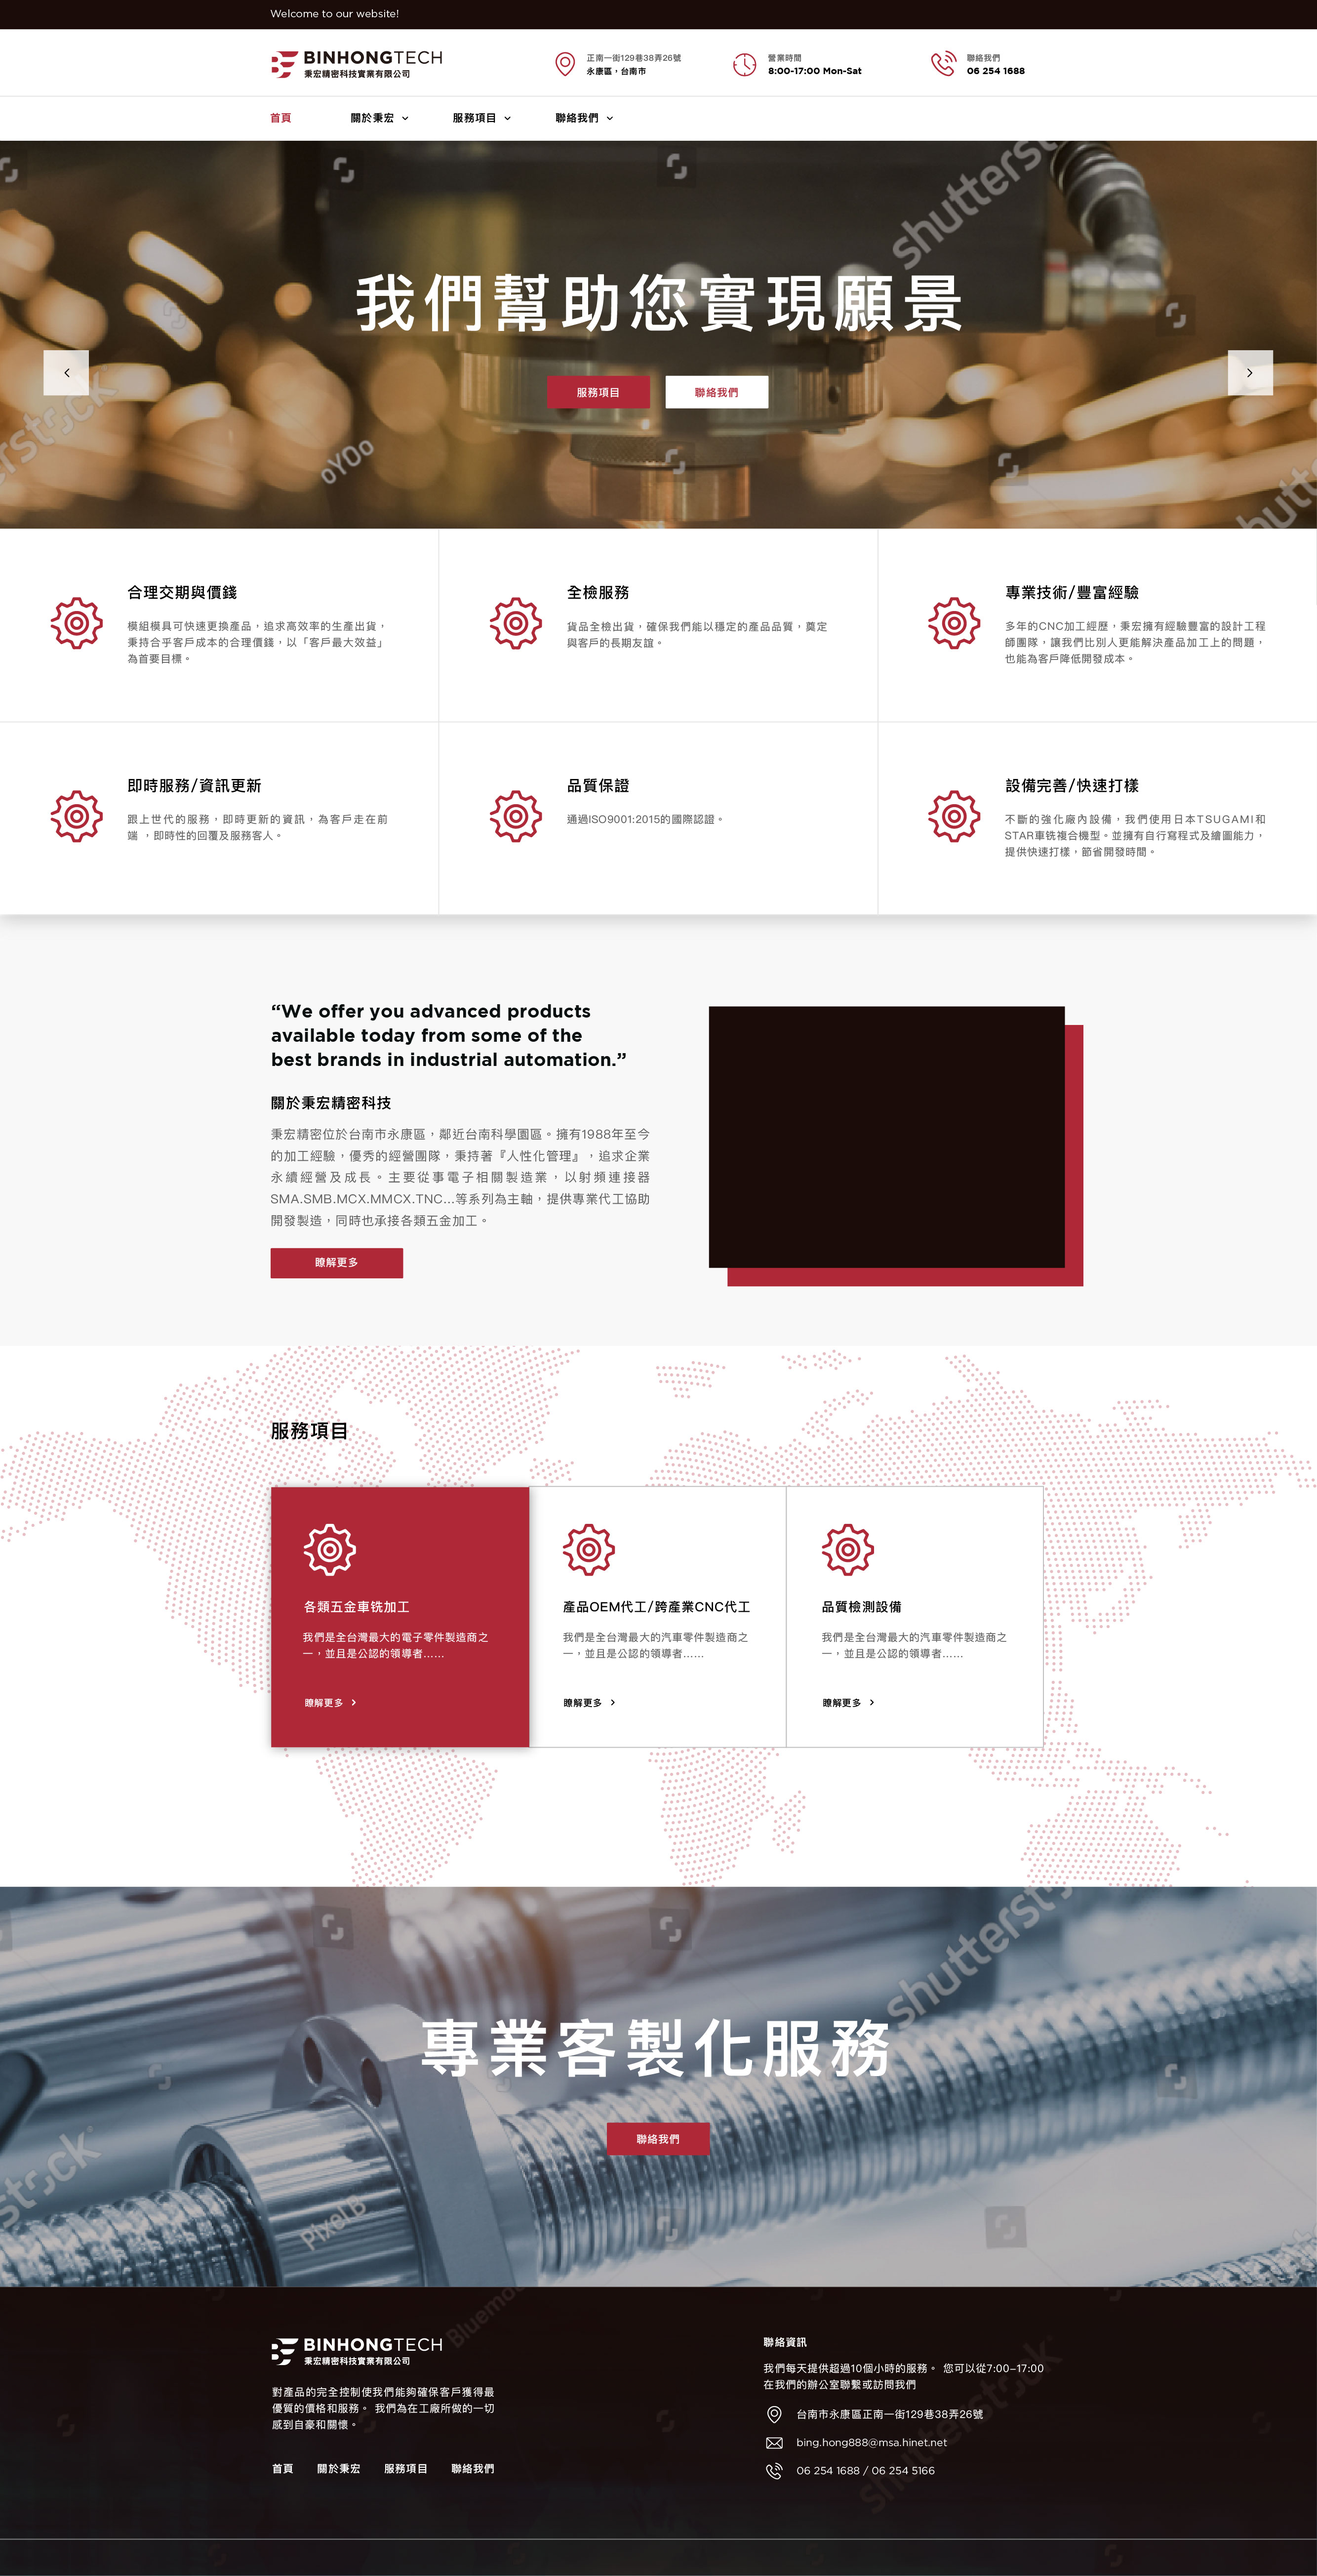
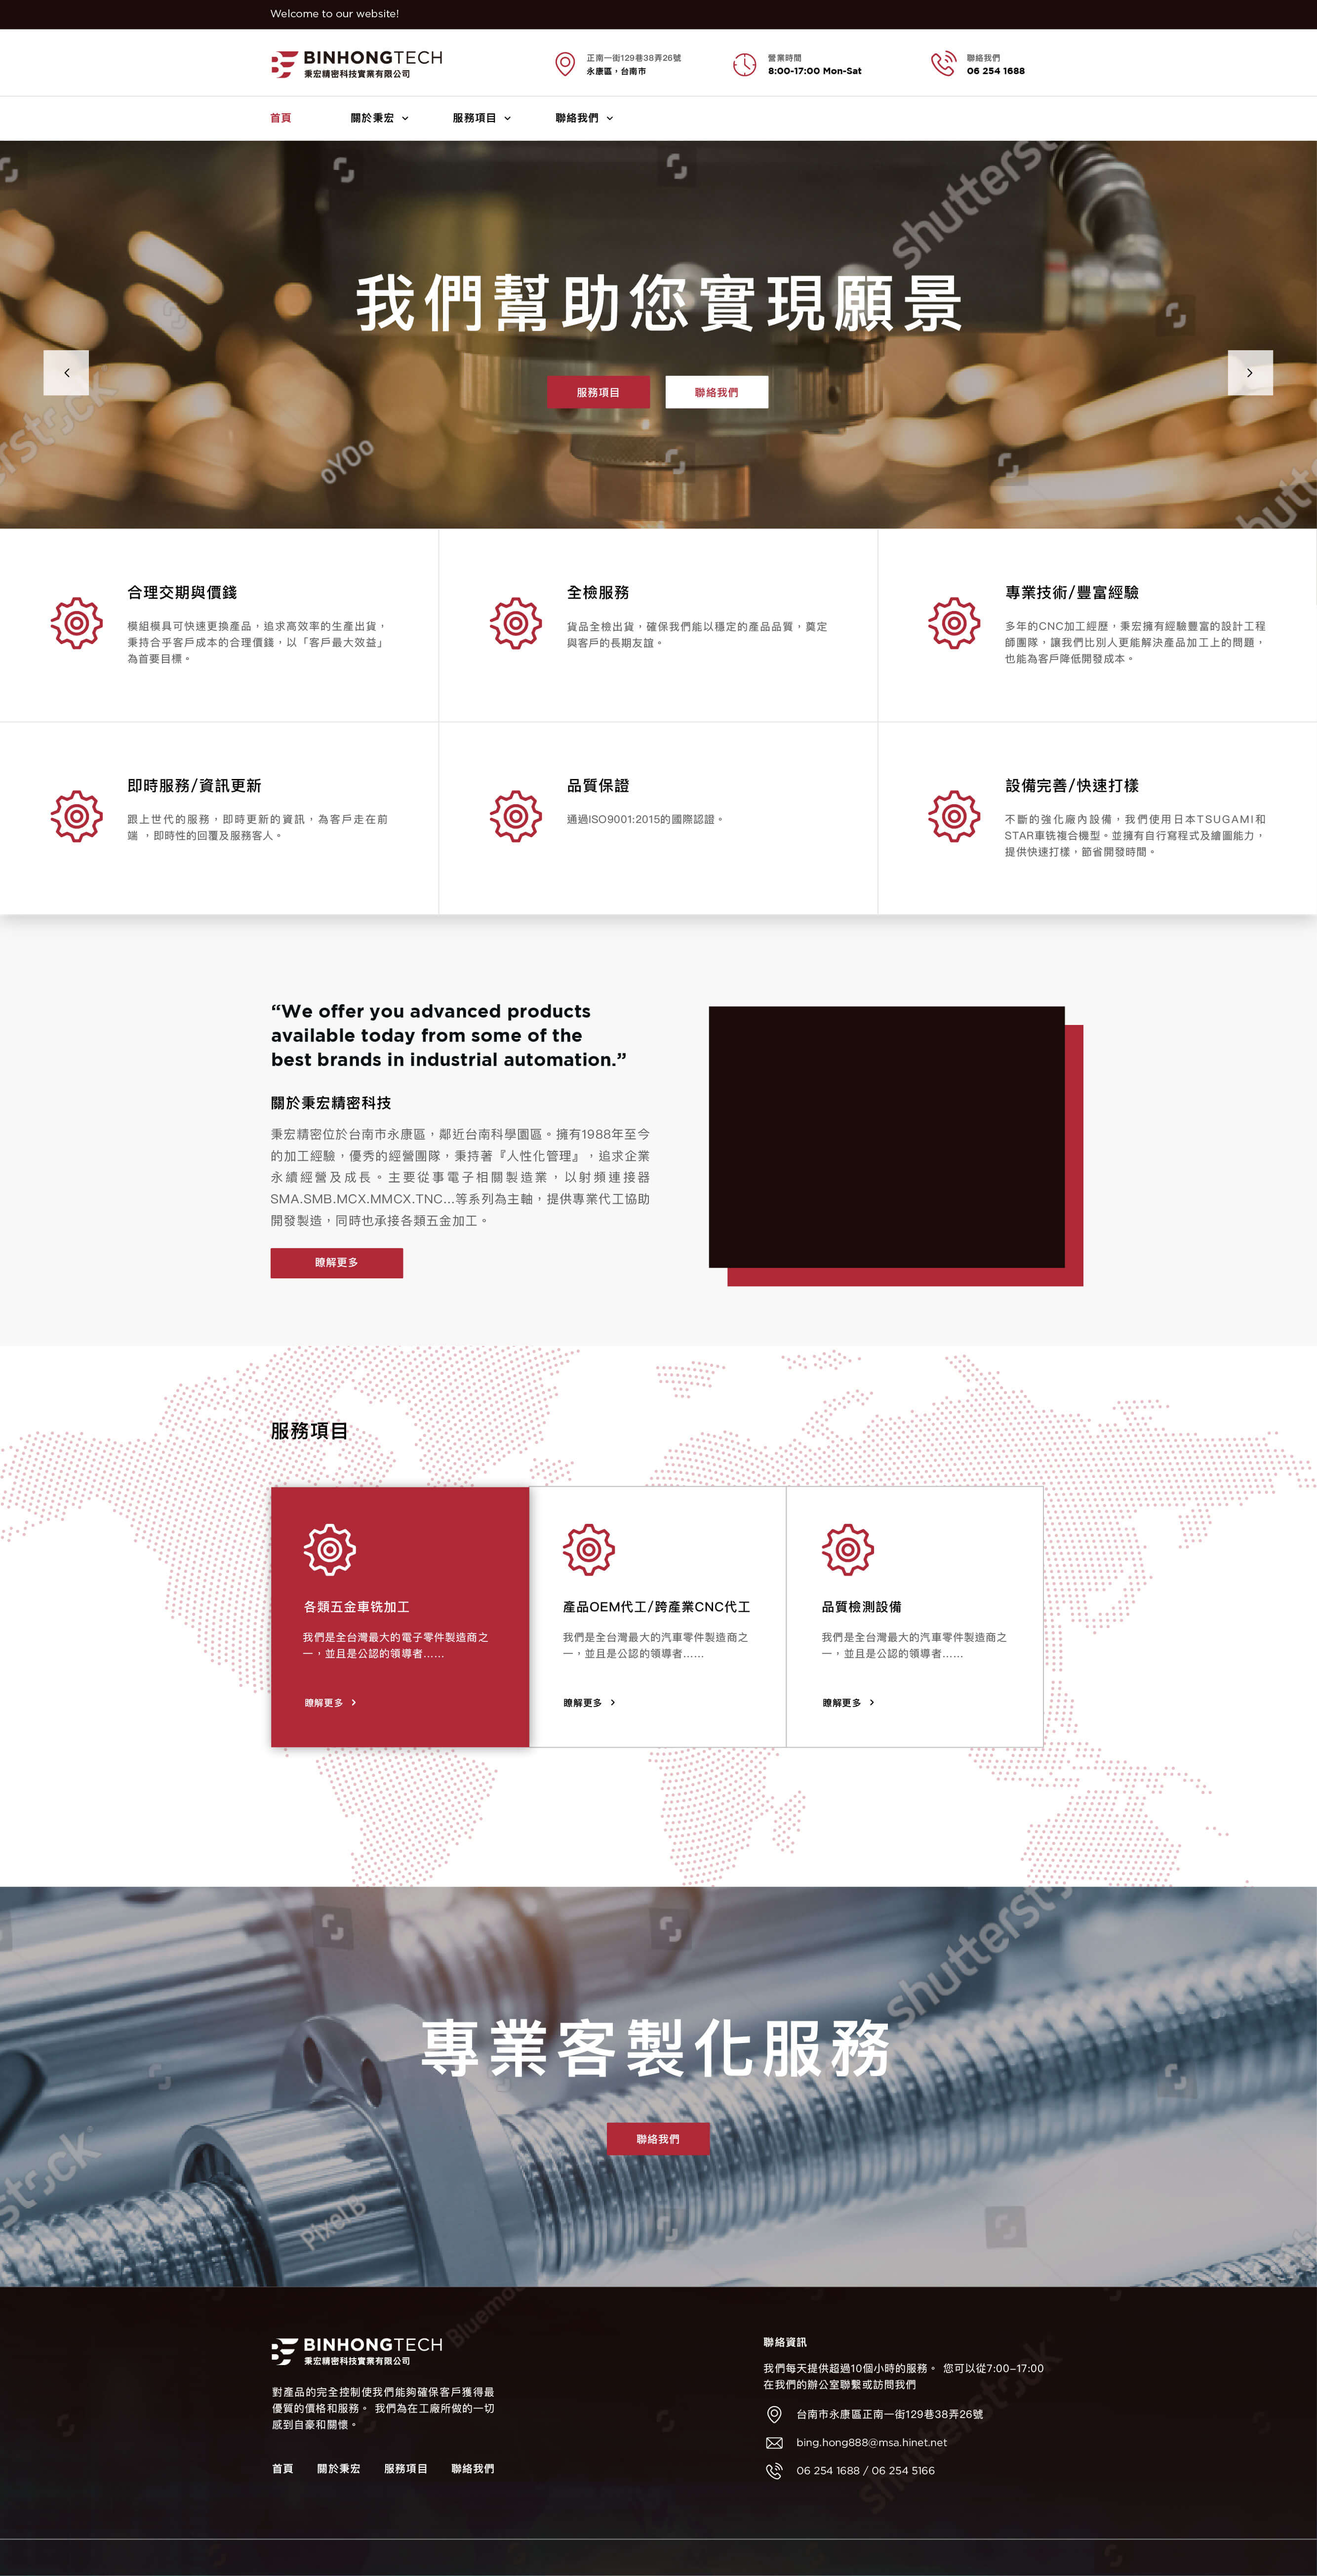
tinypng

Changed region(s): [[0.2801, 0.6213, 0.3112, 0.6523]]

diff --git a/binhong.css b/binhong.css
@@ -205,7 +205,7 @@ span.footer-icon {
 div.shadowBottom {
     box-shadow: 0 5px 5px #aaa;
     position: relative;
-    z-index: 9999;
+    z-index: 999;
 }
 
 @media (max-width: 767.98px) {
